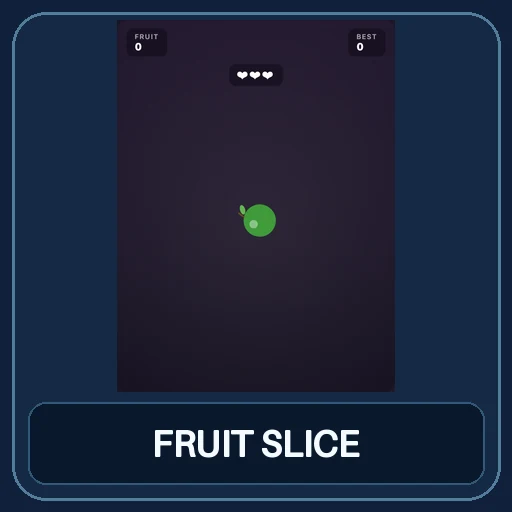
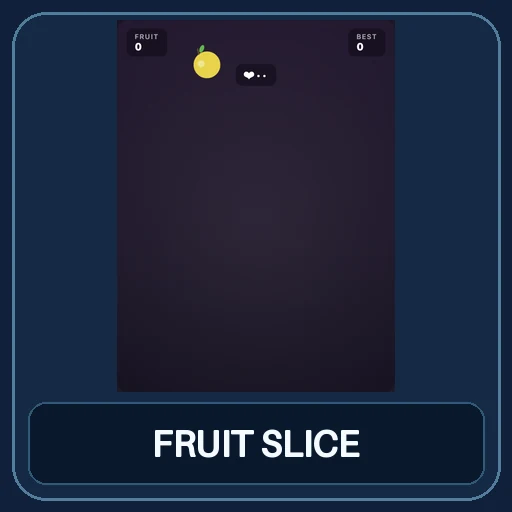
Polish imported games for privacy and smaller screens.
Disable upstream analytics and use accurate artwork and catalog labels for easier discovery.

Generated with Codebuff 🤖

Changed region(s): [[0.4688, 0.375, 0.5625, 0.4688], [0.375, 0.0938, 0.4375, 0.1562], [0.4688, 0.125, 0.5312, 0.1562]]

diff --git a/g/pixel-platformer/index.html b/g/pixel-platformer/index.html
@@ -24,6 +24,7 @@
 
         .game-container {
             position: relative;
+            width: min(800px, calc(100vw - 38px), calc((100vh - 110px) * 16 / 9));
             padding: 16px;
             background: rgba(31, 40, 51, 0.45);
             backdrop-filter: blur(12px);
@@ -37,6 +38,8 @@
         #gameCanvas {
             background-color: #000;
             display: block;
+            width: 100%;
+            height: auto;
             border-radius: 6px;
             box-shadow: inset 0 0 10px rgba(0, 0, 0, 0.8);
         }
@@ -45,7 +48,7 @@
             display: flex;
             justify-content: space-between;
             align-items: center;
-            width: 800px;
+            width: min(800px, calc(100vw - 38px), calc((100vh - 110px) * 16 / 9));
             margin-top: 15px;
             font-family: 'Outfit', sans-serif;
             font-size: 14px;

diff --git a/g/web-games/i18n.js b/g/web-games/i18n.js
@@ -8133,7 +8133,7 @@
   /*   var GC_SITE = 'https://mashukui.goatcounter.com/count';            */
   /* Leaving it empty means nothing is loaded and no request is made.     */
   /* ------------------------------------------------------------------ */
-  var GC_SITE = 'https://mashukui.goatcounter.com/count';
+  var GC_SITE = ''; // Do not send Arcade Atlas visitors to upstream analytics.
 
   (function analytics() {
     if (!GC_SITE) return;                      /* disabled — load nothing */
